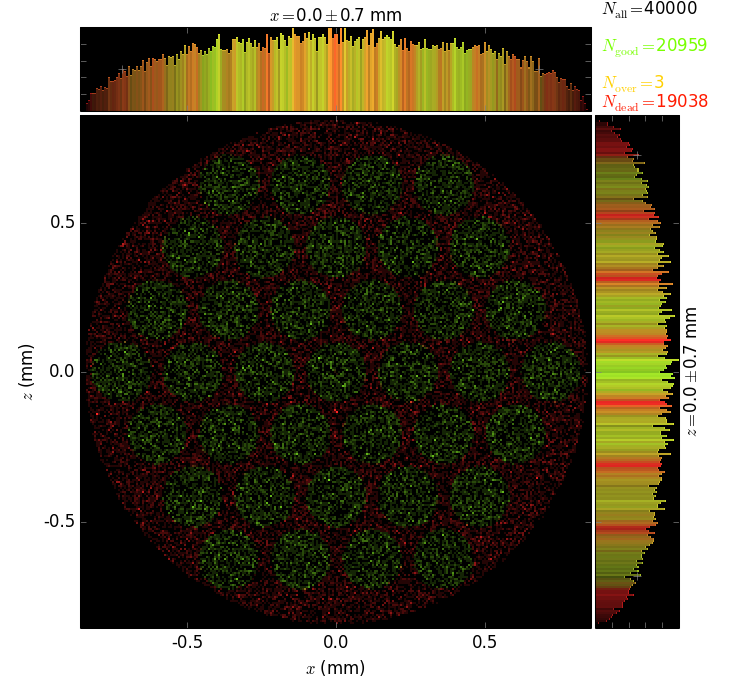
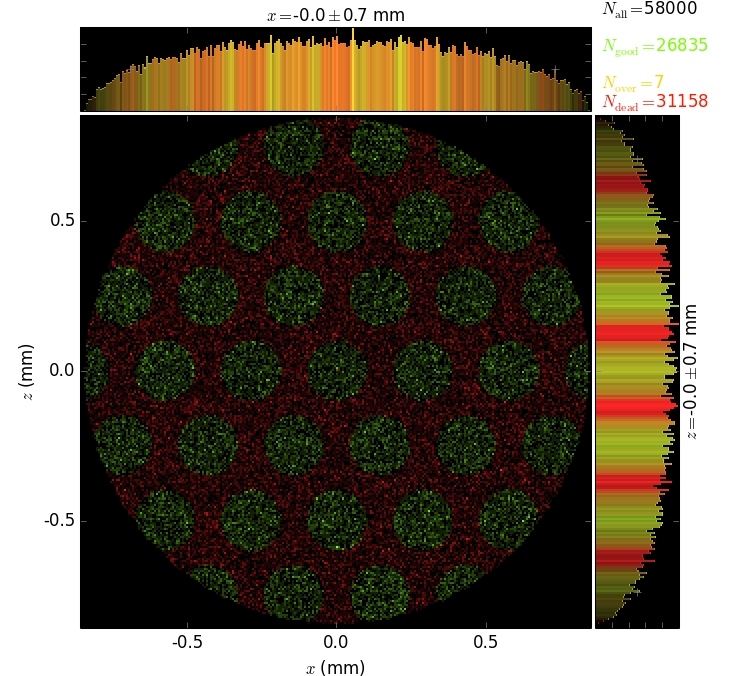
shif -20, why wider

diff --git a/myCapillary0A.py b/myCapillary0A.py
@@ -49,7 +49,7 @@ class BentCapillary(roe.OE):
         self.isParametric = True
 
     def local_x0(self, s):  # axis of capillary, x(s)
-        return self.a0 * (s)**2 + self.b0
+        return self.a0 * (s-20)**2 + self.b0
 
     def local_x0Prime(self, s):
         return 2 * self.a0 * s
